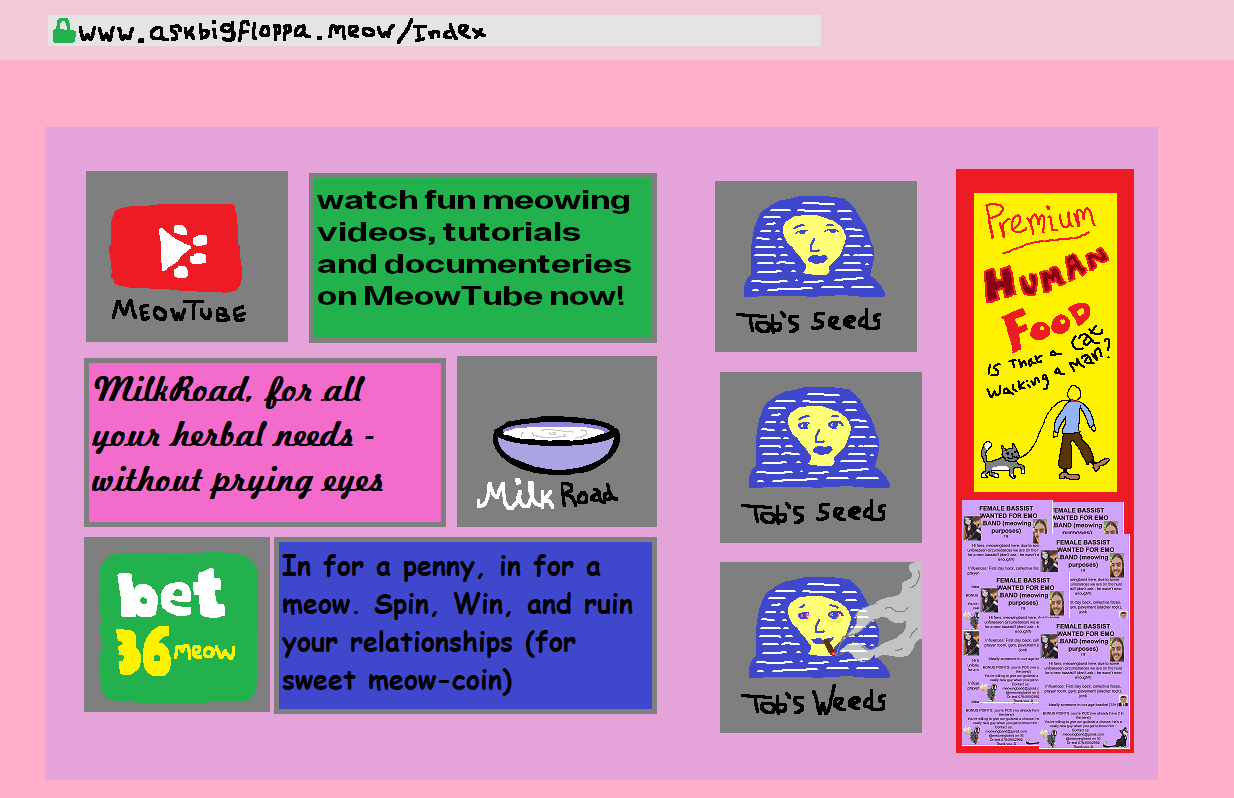
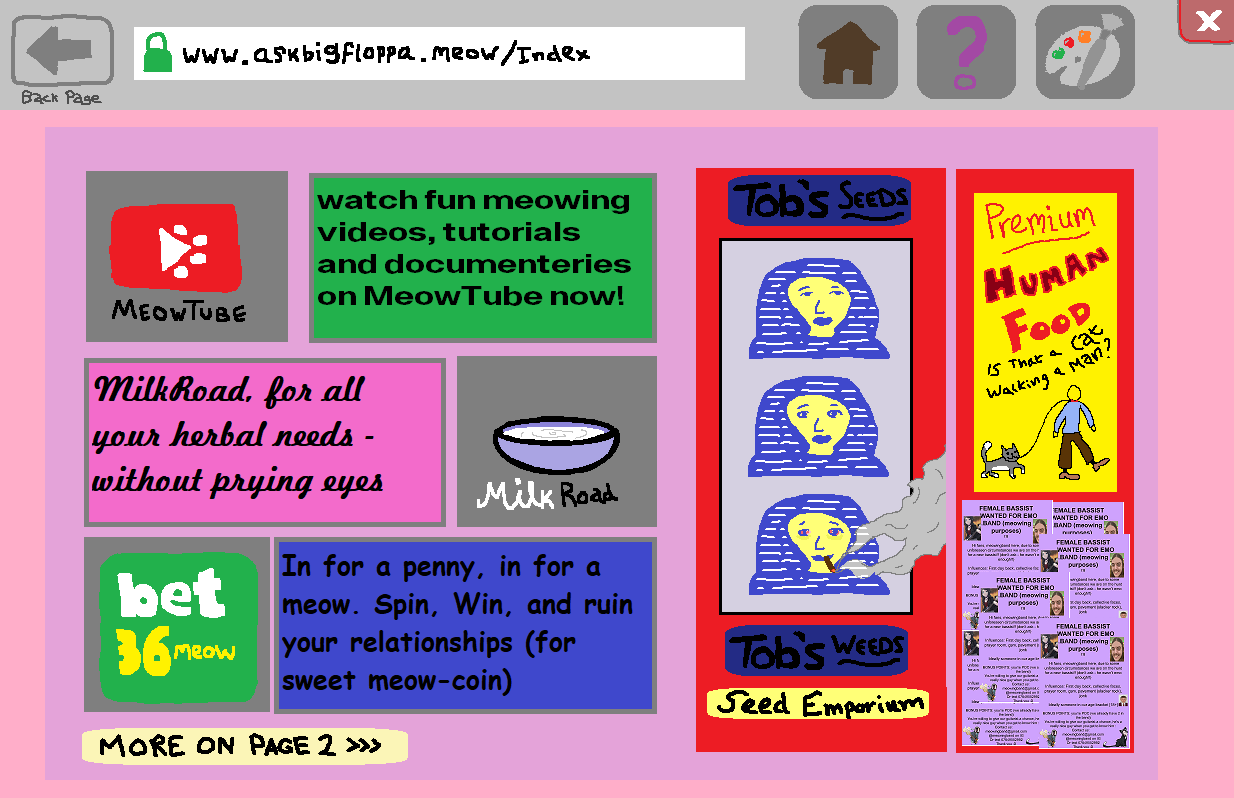
uguj

Changed region(s): [[0.5543, 0.2105, 0.7699, 0.9624], [0.0, 0.0, 1.0, 0.1504], [0.0616, 0.9023, 0.3387, 0.9624]]

diff --git a/site/catnip/util/data.js b/site/catnip/util/data.js
@@ -344,6 +344,7 @@ let screen_transition_bbox_dictionary_data = {
 
 let internetScreenIds = [
     "home",
+    "home2",
     "wiki",
     "paint",
     "exit",
@@ -404,6 +405,7 @@ let internetClickBoxIds = [
 
 let internetScreenFilenames = [
 "home.png",
+"home2.png",
 "wiki.png",
 "paint.png",
 "exit.png",
@@ -466,6 +468,7 @@ let clickBoxLookup = {
     "home_bet36meow": [84, 535, 269, 711],
     "home_milkroad": [456, 355, 655, 527],
     "home_meowtube": [86, 170, 288, 342],
+    "home_2": [408, 765, 82, 727],
 
     "bet36_golf": [257, 291, 955, 541],
     "bet36_flapjack": [254, 565, 499, 798],
@@ -476,10 +479,7 @@ let clickBoxLookup = {
 
 
 let gthrth = [
-[257, 291, 955, 541],
-[254, 565, 499, 798],
-[528, 565, 772, 796],
-[843, 259, 1, 112],
+[408, 765, 82, 727],
 ]
 
 
@@ -525,6 +525,7 @@ home, askfloppa, home_askfloppa
 home, bet36meow, home_bet36meow
 home, milkroad, home_milkroad
 home, meowtube, home_meowtube
+home, home2, home_2,
 bet36meow, betgolf, bet36_golf,
 bet36meow, betflapjack, bet36_flapjack,
 bet36meow, betbingo, bet36_bingo

diff --git a/site/catnip/util/draw.js b/site/catnip/util/draw.js
@@ -18,7 +18,7 @@ function draw() {
     }
 
     if (Screen.currentScreen.internetPage) {
-        drawInternet();
+        //drawInternet();
     }
 
 
@@ -160,6 +160,7 @@ function drawBackground() {
     //let bgImg = new Image();
     //bgImg.src = `../assets/${currentScreen}`;
     //console.log(Screen.currentScreen.filename)
+    
     let bgImg = document.getElementById(Screen.currentScreen.filename);
     ctx.drawImage(bgImg, 0, 0, ctx.canvas.width, ctx.canvas.height);
 }

diff --git a/site/catnip/game.js b/site/catnip/game.js
@@ -1,6 +1,6 @@
-const MAKE_BBOX = false;
+const MAKE_BBOX = true;
 const MAKE_POS_ARRAY = false;
-const DRAW_SCENE_BOXES = true;
+const DRAW_SCENE_BOXES = false;
 
 
 
